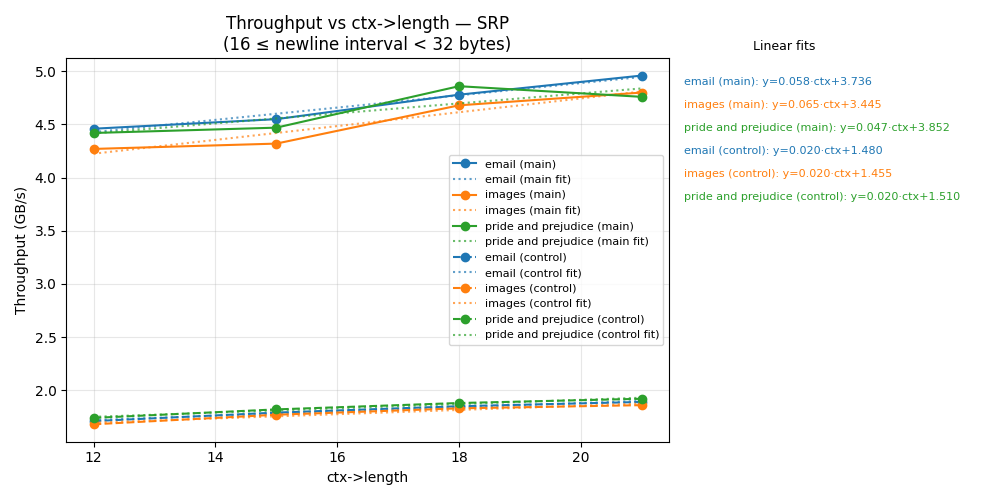
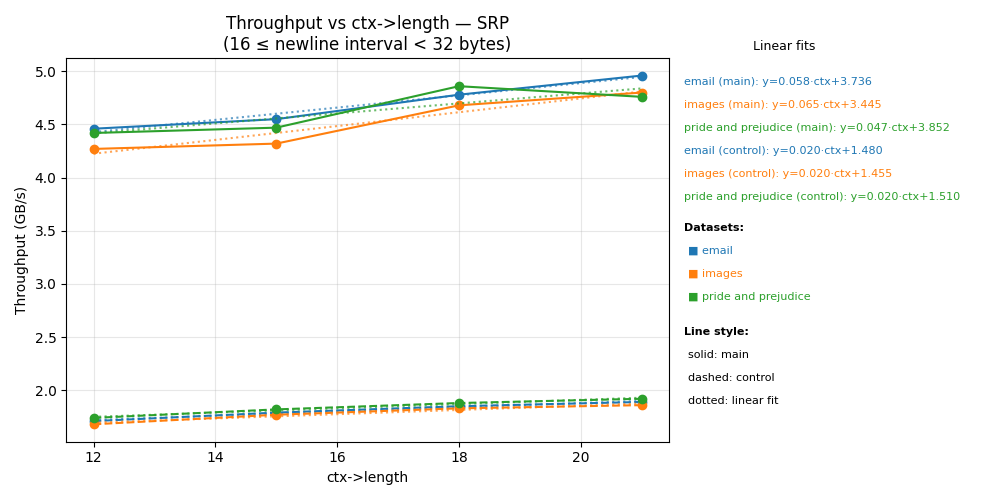
Cleaner graphs

diff --git a/plot_intervals.py b/plot_intervals.py
@@ -287,11 +287,85 @@ def main():
                 )
                 formula_y -= formula_step
 
+    # --- margin legend in side axis (datasets + line styles) ---
+
+    # Start the legend a bit below the last formula line
+    legend_y = formula_y - 0.02
+    if legend_y < 0.15:
+        # Don't crush it at the bottom; clamp a bit
+        legend_y = 0.15
+
+    # Datasets: color legend
+    ax_side.text(
+        0.0, legend_y,
+        "Datasets:",
+        transform=ax_side.transAxes,
+        fontsize=8,
+        fontweight="bold",
+        ha="left",
+        va="top",
+    )
+
+    y = legend_y - formula_step
+    for ds in datasets:
+        color = dataset_colors[ds]
+        ax_side.text(
+            0.02, y,
+            f"■ {ds}",
+            transform=ax_side.transAxes,
+            fontsize=8,
+            color=color,
+            ha="left",
+            va="top",
+        )
+        y -= formula_step
+
+    # Line-style legend (source + fits)
+    y -= formula_step * 0.5
+    ax_side.text(
+        0.0, y,
+        "Line style:",
+        transform=ax_side.transAxes,
+        fontsize=8,
+        fontweight="bold",
+        ha="left",
+        va="top",
+    )
+
+    y -= formula_step
+    ax_side.text(
+        0.02, y,
+        "solid: main",
+        transform=ax_side.transAxes,
+        fontsize=8,
+        ha="left",
+        va="top",
+    )
+    y -= formula_step
+    ax_side.text(
+        0.02, y,
+        "dashed: control",
+        transform=ax_side.transAxes,
+        fontsize=8,
+        ha="left",
+        va="top",
+    )
+    y -= formula_step
+    ax_side.text(
+        0.02, y,
+        "dotted: linear fit",
+        transform=ax_side.transAxes,
+        fontsize=8,
+        ha="left",
+        va="top",
+    )
+
+
     ax.set_title(f"Throughput vs ctx->length — {alphabet}\n({range_desc})")
     ax.set_xlabel("ctx->length")
     ax.set_ylabel("Throughput (GB/s)")
     ax.grid(True, alpha=0.3)
-    ax.legend(fontsize=8)
+    # ax.legend(fontsize=8)
     fig.tight_layout()
 
     # output name depends on alphabet + range + control
